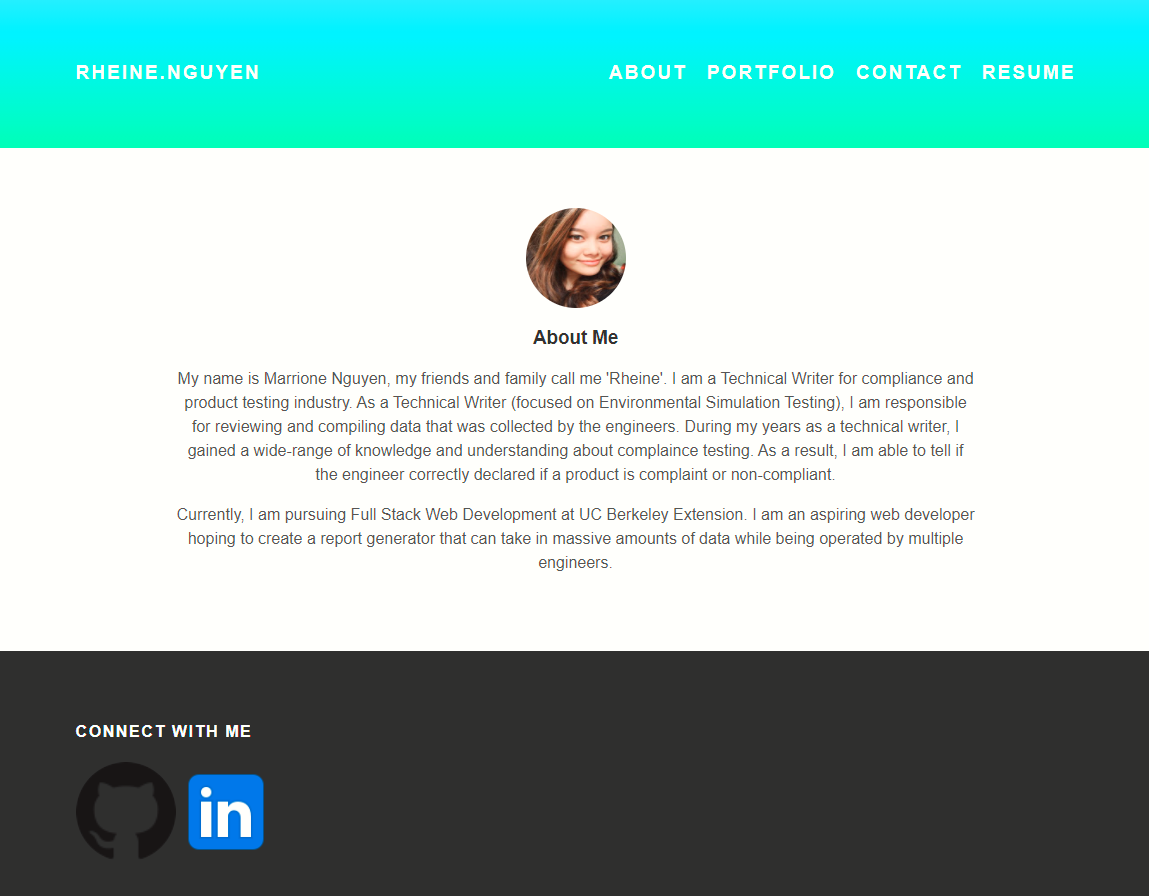
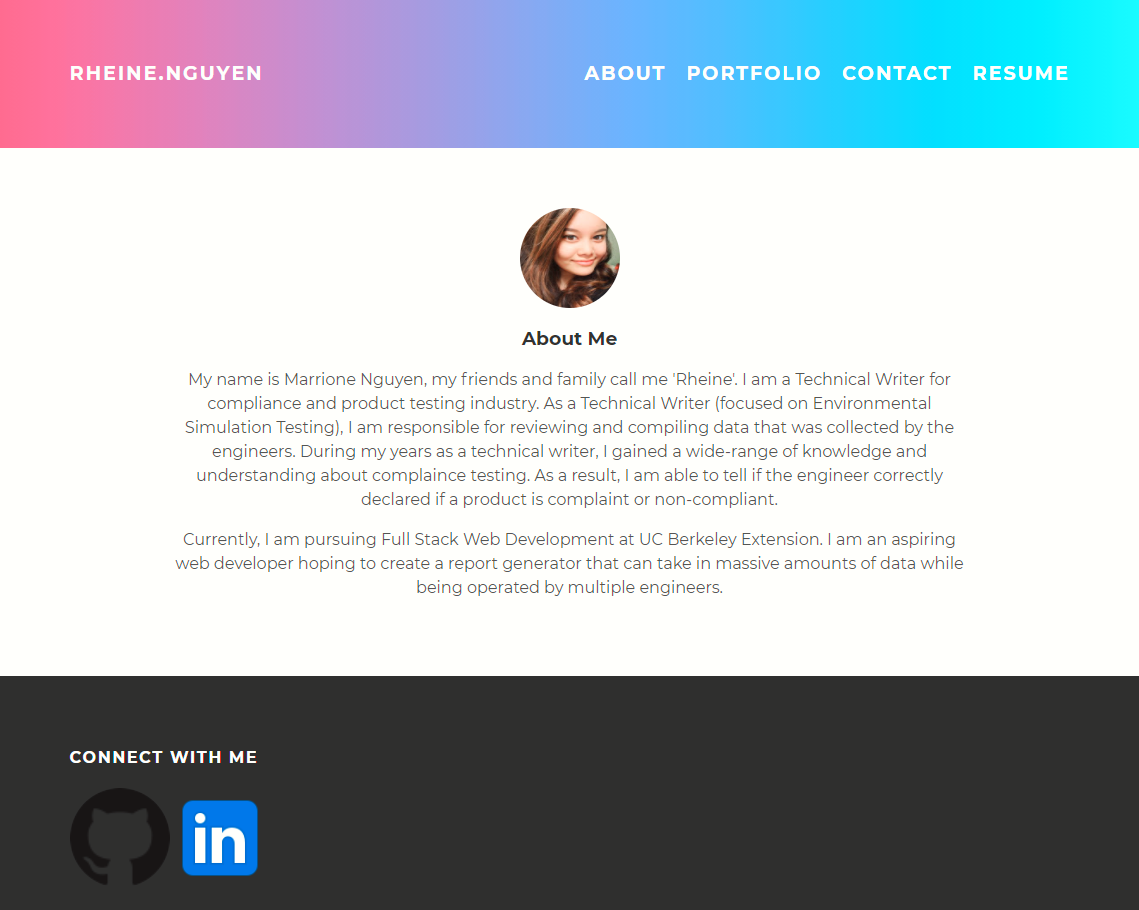
added screenshot

diff --git a/src/index.css b/src/index.css
@@ -330,10 +330,7 @@ body {
   font-family: 'Montserrat', sans-serif;
 }
 #header {
-    background: hsla(152, 100%, 50%, 1);
-    background: linear-gradient(90deg, hsla(152, 100%, 50%, 1) 0%, hsla(186, 100%, 69%, 1) 100%);
-    background: -moz-linear-gradient(90deg, hsla(152, 100%, 50%, 1) 0%, hsla(186, 100%, 69%, 1) 100%);
-    background: -webkit-linear-gradient(90deg, hsla(152, 100%, 50%, 1) 0%, hsla(186, 100%, 69%, 1) 100%);
+    background-image: linear-gradient(to right, #d16ba5, #c777b9, #ba83ca, #aa8fd8, #9a9ae1, #8aa7ec, #79b3f4, #69bff8, #52cffe, #41dfff, #46eefa, #5ffbf1);
     height: 150px;
     line-height: 150px;
 }
